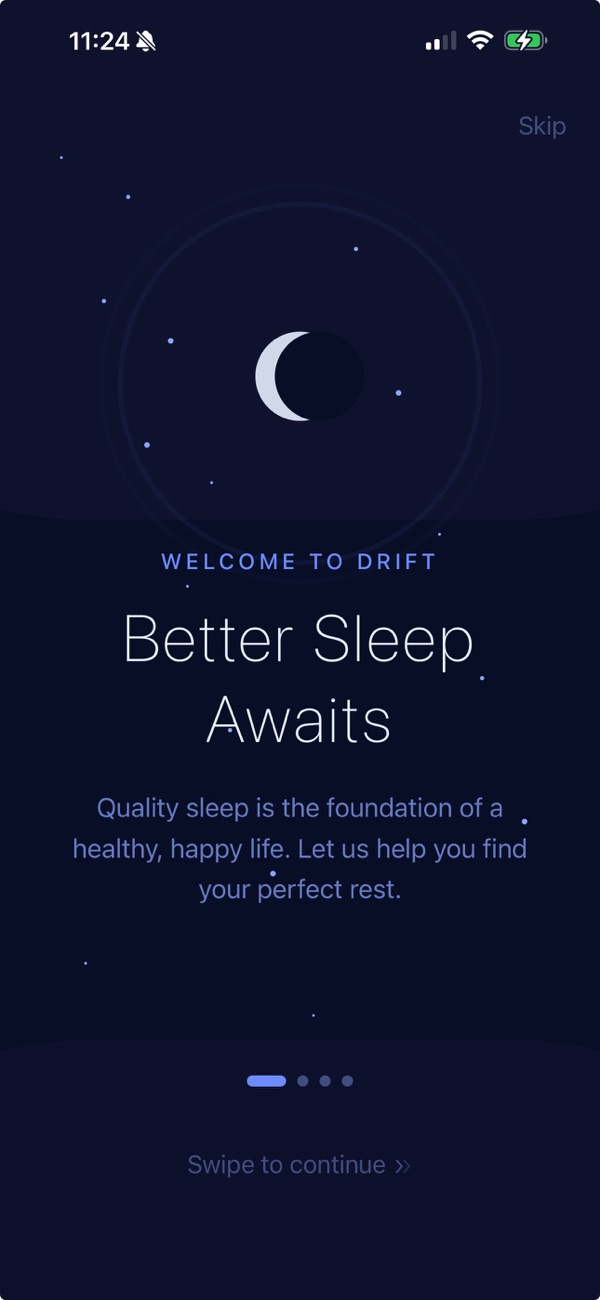
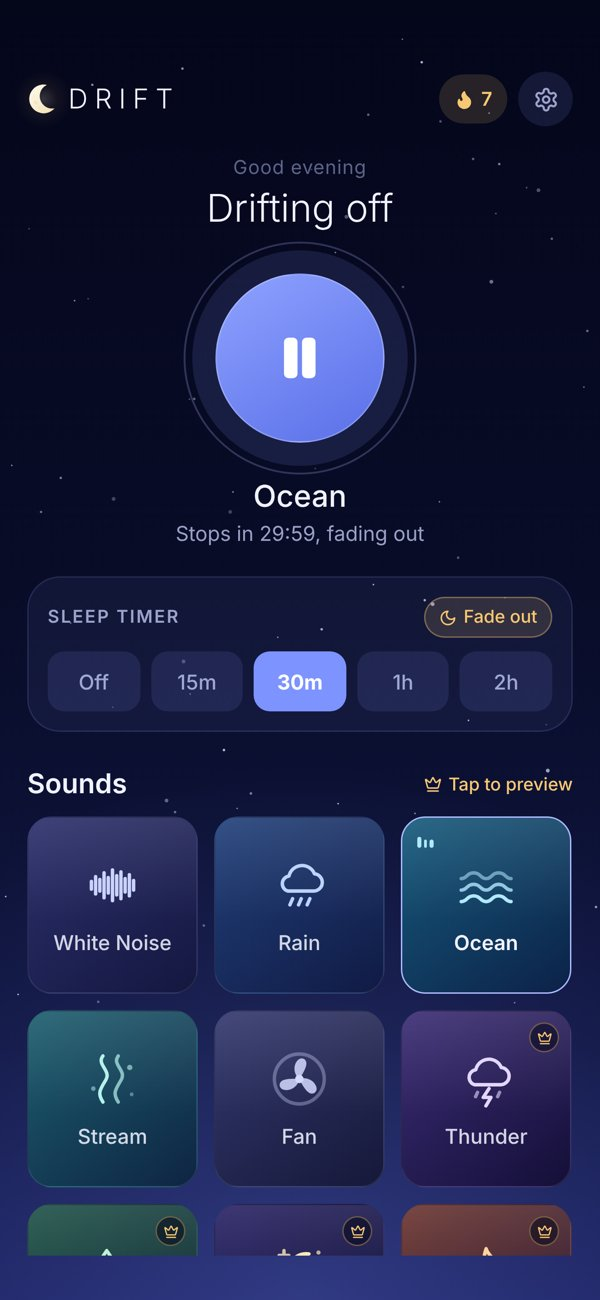
Drift: privacy policy page, support section and refreshed screenshots for 1.18

diff --git a/apps/drift-privacy.html b/apps/drift-privacy.html
@@ -1,0 +1,135 @@
+<!DOCTYPE html>
+<html lang="en">
+<head>
+<meta charset="UTF-8">
+<meta name="viewport" content="width=device-width, initial-scale=1.0">
+<title>Drift Privacy Policy | Graysmith Labs</title>
+<meta name="description" content="How Drift handles your information. No account, and your sleep history stays on your phone.">
+<link rel="canonical" href="https://graysmithlabs.com/apps/drift-privacy.html">
+<meta name="theme-color" content="#f4f1ea" media="(prefers-color-scheme: light)">
+<meta name="theme-color" content="#131513" media="(prefers-color-scheme: dark)">
+<meta property="og:type" content="website">
+<meta property="og:site_name" content="Graysmith Labs">
+<meta property="og:title" content="Drift Privacy Policy | Graysmith Labs">
+<meta property="og:description" content="How Drift handles your information. No account, and your sleep history stays on your phone.">
+<meta property="og:url" content="https://graysmithlabs.com/apps/drift-privacy.html">
+<meta property="og:image" content="https://graysmithlabs.com/assets/og.png">
+<meta name="twitter:card" content="summary_large_image">
+<meta name="robots" content="index, follow">
+<meta name="twitter:site" content="@GraysmithLabs">
+<link rel="icon" href="../favicon.svg" type="image/svg+xml">
+<link rel="preconnect" href="https://fonts.googleapis.com">
+<link rel="preconnect" href="https://fonts.gstatic.com" crossorigin>
+<link href="https://fonts.googleapis.com/css2?family=Fraunces:ital,opsz,wght@0,9..144,400;0,9..144,500;0,9..144,600;1,9..144,400&family=Spline+Sans+Mono:wght@400;500&display=swap" rel="stylesheet">
+<link rel="stylesheet" href="../styles.css">
+<script src="../main.js" defer></script>
+<style>
+.policy { max-width: 68ch; padding: 24px 0 96px; }
+.policy h1 { font-size: clamp(36px, 6vw, 56px); margin: 8px 0 16px; }
+.policy h2 { font-size: 24px; max-width: none; margin: 40px 0 10px; }
+.policy p { line-height: 1.75; margin: 0 0 14px; }
+.policy a { color: var(--ink); }
+</style>
+</head>
+<body>
+<a class="skip" href="#main">Skip to content</a>
+<header class="site-head">
+  <div class="wrap">
+    <a class="mark" href="../"><span class="glyph">G</span> Graysmith Labs</a>
+    <nav class="nav" aria-label="Main">
+      <div class="nav-links" id="nav-links">
+        <a href="../#services">Services</a>
+        <a href="../work/valentine-tide.html">Work</a>
+        <a href="../#apps" aria-current="page">Apps</a>
+        <a href="../#about">About</a>
+        <a href="../#faq">FAQ</a>
+        <a class="menu-cta" href="../#contact">Start a project &rarr;</a>
+      </div>
+      <a class="btn sm" href="../#contact">Start a project</a>
+      <button class="menu-btn" type="button" aria-controls="nav-links" aria-expanded="false" aria-label="Open menu"><span></span><span></span></button>
+    </nav>
+  </div>
+</header>
+<main id="main">
+  <div class="wrap">
+    <p class="crumbs"><a href="../#apps">Apps</a> &nbsp;/&nbsp; <a href="drift.html">Drift</a> &nbsp;/&nbsp; Privacy</p>
+    <article class="policy">
+      <h1>Drift Privacy Policy</h1>
+      <p class="muted">Last updated October 13, 2026</p>
+      <p class="lede">Drift is a sleep sounds app made by Graysmith Labs LLC. This policy explains what the app does with your information. The short version: there is no account, and your sleep history stays on your phone.</p>
+
+      <h2>What stays on your device</h2>
+      <p>Your chosen sounds, timer settings, sleep streak, the nights you used Drift and your reminder time are stored only on your device. We do not run servers that receive this data, and we cannot see it. Deleting the app deletes it.</p>
+
+      <h2>Sounds</h2>
+      <p>Every sound is bundled inside the app and plays offline. Drift does not use your microphone and does not record anything.</p>
+
+      <h2>Reminders</h2>
+      <p>Bedtime and trial reminders are local notifications scheduled on your device. They are never sent through our servers.</p>
+
+      <h2>Purchases</h2>
+      <p>Subscriptions are processed by Apple. We use RevenueCat to confirm whether your subscription is active. RevenueCat receives an anonymous app user ID, your purchase receipts and basic device information such as the app version and country. You can read the <a href="https://www.revenuecat.com/privacy">RevenueCat privacy policy</a>.</p>
+
+      <h2>Advertising</h2>
+      <p>The free version of Drift shows ads from Google AdMob. Before any ad loads, Drift asks for permission to track through Apple's App Tracking Transparency prompt. If you allow it, AdMob may use your device's advertising identifier to show more relevant ads. If you do not, Drift asks AdMob for non personalized ads only and your advertising identifier is not used. Either way AdMob may collect device information, such as the device model, operating system and approximate location from your IP address, to deliver ads, measure them and prevent fraud. You can change your choice anytime in the Settings app under Privacy and Security, Tracking. You can read <a href="https://policies.google.com/technologies/partner-sites">how Google uses information from apps that use its services</a>. Drift Premium removes all ads.</p>
+
+      <h2>Usage analytics</h2>
+      <p>Drift may send a small number of anonymous usage events, such as finishing onboarding, starting a sound, opening the Premium screen and starting a trial, so we can tell which parts of the app help people. These events are tied to a random identifier created on your device, never to your name, email or advertising identifier, and are processed by PostHog. They are not used for advertising or sold.</p>
+
+      <h2>Children</h2>
+      <p>Drift is not directed to children under 13 and does not knowingly collect information from them.</p>
+
+      <h2>Changes</h2>
+      <p>If this policy changes, the new version will be posted at this address with a new date.</p>
+
+      <h2>Contact</h2>
+      <p>Questions about this policy: <a href="mailto:ramsey@graysmithlabs.com?subject=Drift%20privacy">ramsey@graysmithlabs.com</a></p>
+    </article>
+  </div>
+</main>
+<footer class="site-foot">
+  <div class="wrap">
+    <div class="foot-grid">
+      <div>
+        <a class="mark" href="../"><span class="glyph">G</span> Graysmith Labs</a>
+        <p class="blurb">An independent software studio in Colorado. Elegant software across every platform, for clients and for ourselves.</p>
+      </div>
+      <div>
+        <span class="label">Apps</span>
+        <ul>
+          <li><a href="../apps/drift.html">Drift</a></li>
+          <li><a href="../apps/signsnap.html">SignSnap</a></li>
+          <li><a href="../apps/blitztap.html">BlitzTap</a></li>
+          <li><a href="../apps/celebriday.html">CelebriDay</a></li>
+          <li><a href="../apps/saybright.html">SayBright</a></li>
+          <li><a href="../apps/tubtender.html">TubTender</a></li>
+        </ul>
+      </div>
+      <div>
+        <span class="label">Studio</span>
+        <ul>
+          <li><a href="../work/valentine-tide.html">Valentine Tide</a></li>
+          <li><a href="../#services">Services</a></li>
+          <li><a href="../#ai">AI</a></li>
+          <li><a href="../#process">Process</a></li>
+          <li><a href="../#engage">Ways to work</a></li>
+          <li><a href="../#faq">FAQ</a></li>
+          <li><a href="../#about">About</a></li>
+        </ul>
+      </div>
+      <div>
+        <span class="label">Contact</span>
+        <ul>
+          <li><a href="mailto:ramsey@graysmithlabs.com?subject=Project%20inquiry">ramsey@graysmithlabs.com</a></li>
+          <li><a href="https://apps.apple.com/us/developer/graysmith-labs-llc/id1871756911">Our App Store page</a></li>
+        </ul>
+      </div>
+    </div>
+    <div class="foot-base">
+      <span>&copy; <span data-year>2026</span> Graysmith Labs LLC &middot; A Colorado limited liability company</span>
+      <span>Centennial, Colorado &middot; United States</span>
+    </div>
+  </div>
+</footer>
+</body>
+</html>

diff --git a/apps/drift.html b/apps/drift.html
@@ -58,7 +58,7 @@
         </div>
         <h1 class="rise d2">Drift</h1>
         <p class="lede rise d2" style="font-family:var(--serif);font-size:22px;color:var(--ink);line-height:1.4">White noise and sleep sounds, one tap away.</p>
-        <p class="lede rise d3" style="margin-top:18px">Drift helps people fall asleep faster and stay asleep longer. Nine carefully mixed soundscapes, a sleep timer, and a pitch black interface that stays out of the way at 2am.</p>
+        <p class="lede rise d3" style="margin-top:18px">Drift helps people fall asleep faster and stay asleep longer. Eleven seamless sleep sounds, a sleep timer that fades out gently, and a calm night sky interface that stays out of the way at 2am.</p>
         <div class="btn-row rise d3">
           <a class="btn" href="https://apps.apple.com/us/app/drift-white-noise-sleep/id6758258891" rel="noopener">Download on the App Store</a>
           <a class="btn ghost" href="../#contact">Build something like this</a>
@@ -75,7 +75,7 @@
       <div><span class="label">Category</span><p>Health and Fitness</p></div>
       <div><span class="label">Launched</span><p>February 2026</p></div>
       <div><span class="label">Rating</span><p>5.0 on the App Store</p></div>
-      <div><span class="label">Pricing</span><p>Free with ads, Premium at $1.99 a month</p></div>
+      <div><span class="label">Pricing</span><p>Five sounds free, Premium with a free week</p></div>
     </div>
   </div>
 
@@ -83,12 +83,12 @@
     <div class="wrap">
       <div class="sec-head"><div><p class="eyebrow">What it does</p><h2>Features</h2></div></div>
       <div class="features">
-        <div class="service"><h3>Nine soundscapes</h3><p>Rain, ocean waves, thunderstorm, white noise, brown noise, fan, forest, fireplace, and wind.</p></div>
+        <div class="service"><h3>Eleven sleep sounds</h3><p>White noise, rain, ocean, stream and fan for everyone, plus thunder, forest, night, fire, wind and cafe with Premium.</p></div>
         <div class="service"><h3>Sleep timer</h3><p>Fade out after 15 minutes, 30 minutes, 1 hour, or 2 hours, so audio does not run all night.</p></div>
-        <div class="service"><h3>Plays with the screen locked</h3><p>Background audio keeps going when the phone sleeps, with volume right on the main screen.</p></div>
+        <div class="service"><h3>Plays with the screen locked</h3><p>Background audio keeps going when the phone sleeps, all night if you want it to.</p></div>
         <div class="service"><h3>Works offline</h3><p>Every sound ships inside the app. No streaming, no buffering, no signal needed.</p></div>
-        <div class="service"><h3>Built for the dark</h3><p>A minimal black interface that will not light up the room or wake a partner.</p></div>
-        <div class="service"><h3>Premium</h3><p>A simple monthly subscription removes ads and supports ongoing development.</p></div>
+        <div class="service"><h3>Built for the dark</h3><p>A deep night sky design, plus a sleep mode that dims the screen so it will not light up the room or wake a partner.</p></div>
+        <div class="service"><h3>Premium</h3><p>Unlocks all eleven sounds and removes ads. New subscribers get a free week, and any locked sound can be previewed first.</p></div>
       </div>
     </div>
   </section>
@@ -104,7 +104,24 @@
           <li><strong>Seamless background audio.</strong> iOS background audio mode with loops tuned so there is no audible gap or click at the seam.</li>
           <li><strong>Expo and React Native.</strong> Expo SDK 54, React Native 0.81, and Reanimated 4, written in strict TypeScript.</li>
           <li><strong>Subscriptions and ads.</strong> RevenueCat for the Premium subscription and Google AdMob for the free tier.</li>
-          <li><strong>Shipped and iterated.</strong> Released in February 2026 and updated steadily since, now on version 1.16.</li>
+          <li><strong>Shipped and iterated.</strong> Released in February 2026 and updated steadily since, now on version 1.18.</li>
+      </ul>
+    </div>
+  </section>
+
+  <section id="support">
+    <div class="wrap split">
+      <div>
+        <p class="eyebrow">Support</p>
+        <h2>Help with <em>Drift.</em></h2>
+        <p class="muted" style="margin-top:18px;max-width:40ch">Email <a href="mailto:ramsey@graysmithlabs.com?subject=Drift%20support">ramsey@graysmithlabs.com</a> and a real person replies, usually within a day. Read the <a href="drift-privacy.html">Drift privacy policy</a>.</p>
+      </div>
+      <ul class="checks">
+          <li><strong>Restore Premium.</strong> Open Drift, tap Settings, then Go Premium, then Restore purchases. Use the same Apple ID you subscribed with.</li>
+          <li><strong>Cancel or change your plan.</strong> Open the Settings app on your iPhone, tap your name, then Subscriptions, then Drift.</li>
+          <li><strong>Sound stops when the screen locks.</strong> Check that the ring switch is not muting media and that Low Power Mode is off, then play the sound again.</li>
+          <li><strong>Turn the bedtime reminder on or off.</strong> In Drift, tap Settings, then Nightly reminder. If it will not turn on, allow notifications for Drift in the Settings app.</li>
+          <li><strong>I had every sound before.</strong> Anyone who installed Drift before version 1.18 keeps all eleven sounds for free.</li>
       </ul>
     </div>
   </section>
